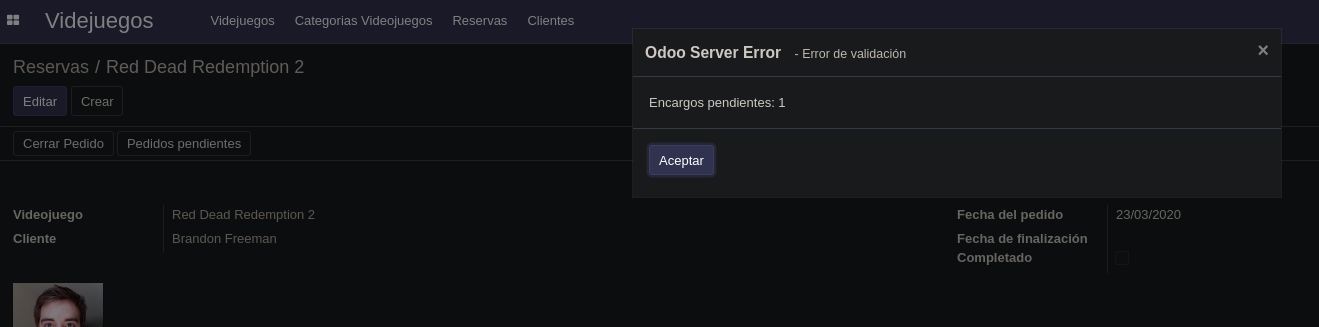
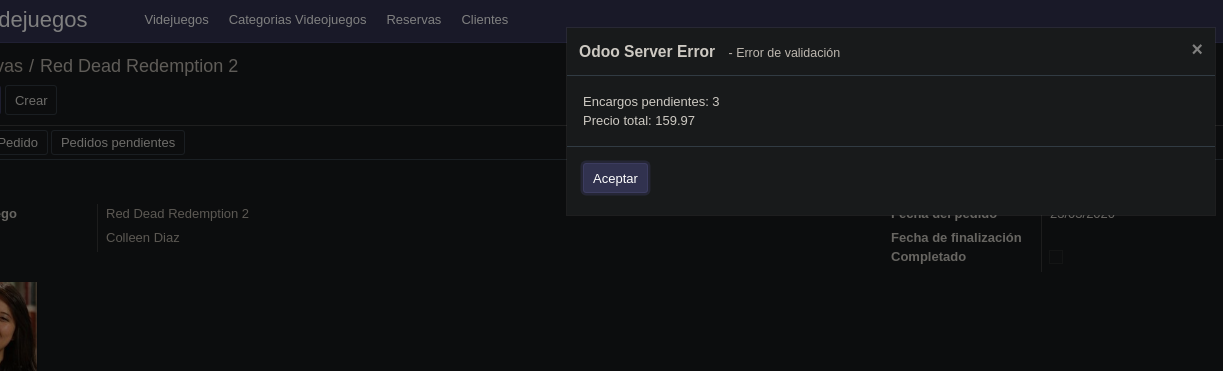
añadido campo precio total para clientes y el boton en reservas

diff --git a/modulo_video_juegos/models/games_client.py b/modulo_video_juegos/models/games_client.py
@@ -16,6 +16,7 @@ class GameClients(models.Model):
     date_start = fields.Date('Cliente Desde',default = lambda *a:datetime.now().strftime('%Y-%m-%d'))
     date_of_birth = fields.Date('Fecha de nacimiento', required = True)
     remaining_orders = fields.Integer('Pedidos Pendientes', compute = 'check_remain_orders', default = 0)
+    total_price = fields.Integer('Precio Total', compute = 'check_remain_orders', default = 0)
 
 #constrain que verifica que no sea más joven que el día en el que se registra
     @api.constrains('date_of_birth', 'date_start')
@@ -30,7 +31,10 @@ class GameClients(models.Model):
         orders = self.env['game.reserve']
         for cliente in orders.search([]):
             cont = 0
+            totalPrice = 0
             for order in orders.search([]):
                 if (order.isCompleted == False and order.client_id == cliente.client_id):
+                    totalPrice+=order.game_id.price
                     cont+=1
                 cliente.client_id.remaining_orders = cont
+                cliente.client_id.total_price = totalPrice

diff --git a/modulo_video_juegos/models/games_reserve.py b/modulo_video_juegos/models/games_reserve.py
@@ -38,10 +38,12 @@ class GameReserve(models.Model):
     def contOrders(self):
         orders = self.env['game.reserve']
         cont = 0
+        totalPrice = 0
         for order in orders.search([]):
             if (order.isCompleted == False and order.client_id == self.client_id):
                 cont+=1
-        raise models.ValidationError('Encargos pendientes: '+str(cont))
+                totalPrice+=order.game_id.price
+        raise models.ValidationError('Encargos pendientes: '+str(cont)+"\nPrecio total: "+str(totalPrice))
 
 #constrain que verifica que no se reserve un videojuego no disponible
     @api.constrains('game_id')

diff --git a/README.md b/README.md
@@ -52,8 +52,8 @@ Esta clase es la misma de Categorias de la biblioteca, pero con los nombres de l
 **Reservas vista Calendar:**
 ![lvidkanban](capturas/7.png)
 
-**Reservas vista Calendar:**
-![lvidkanban](capturas/10.png)
+**Reservas vista Forlm:**
+![resvCal](capturas/10.png)
 
 La fecha de finalización y el valor completado, se generan pulsando el boton "cerrar pedido", establece el campo completado a True y establece como fecha de finalización la actual.
 
@@ -63,13 +63,13 @@ Si ya estaba finalizado sale este mensaje:
 
 ![lvidkanban](capturas/14.png)
 
-Si se pulsa en el boton de pedidos pendientes, muestra el número de pedidos sin completar del cliente actual.
+Si se pulsa en el boton de pedidos pendientes, muestra el número de pedidos sin completar del cliente actual y el precio total de sus reservas.
 
-![lvidkanban](capturas/11.png)
+![inpeds](capturas/11.png)
 
 **Clientes vista Tree:**
 ![lvidkanban](capturas/16.png)
-(El campo Pedidos Pendientes, es un campo calculado y hace lo mismo que el boton de arriba)
+(El campo Pedidos Pendientes y el de Precio Total, es un campo calculado y hace lo mismo que el boton de arriba)
 
 ---
 ***Autor: Manuel Ángel Mazás De Jesús***
